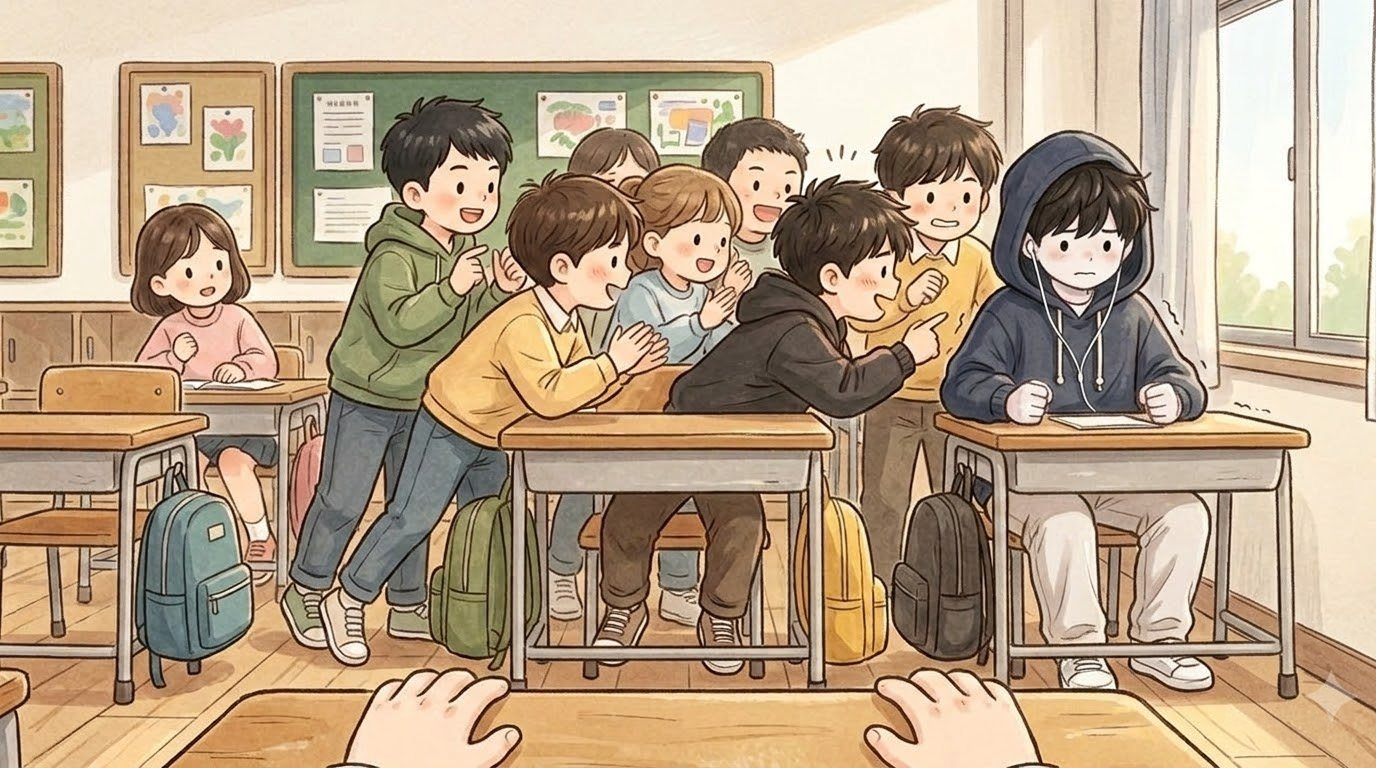
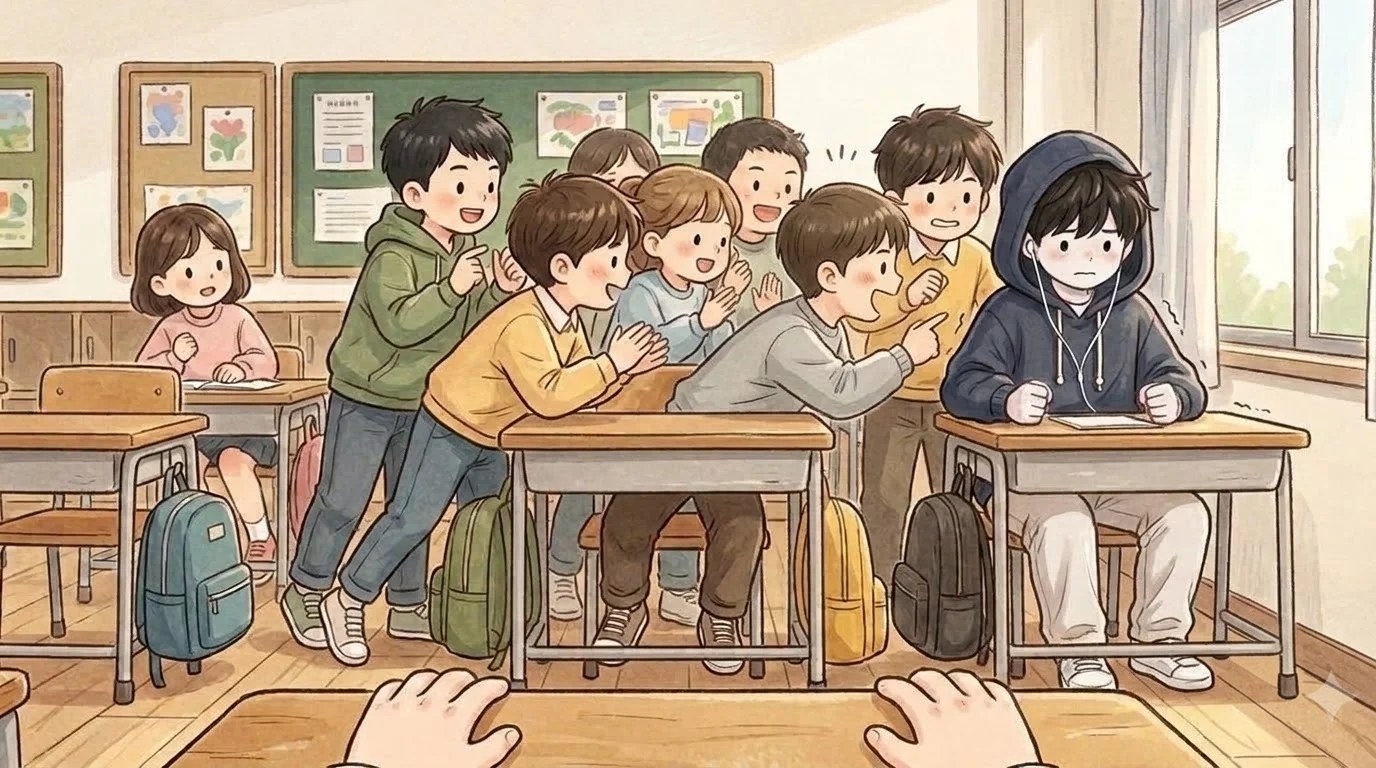
redraw (Flow, Nano Banana Pro): haneul_05 the black-jacket boy in the crowd is an ordinary classmate in grey (no Minho in Haneul Day 6) (BUILD 1107095218)

Changed region(s): [[0.4688, 0.2188, 0.6875, 0.5625]]

diff --git a/index.html b/index.html
@@ -119,14 +119,14 @@ body,button{word-break:keep-all;overflow-wrap:break-word}
 <div id="fader"></div>
 <script>
 // same address, newest version: if the page this phone has kept is older than the one online, fetch the new one and reopen
-const BUILD='1107095103';
+const BUILD='1107095218';
 try{fetch(location.pathname,{cache:'no-store'}).then(r=>r.text()).then(t=>{const m=t.match(/const BUILD='(\d+)'/);if(m&&m[1]!==BUILD&&sessionStorage.getItem('upd')!==m[1]){sessionStorage.setItem('upd',m[1]);fetch(location.pathname,{cache:'reload'}).then(()=>location.reload())}}).catch(()=>{})}catch(e){}
 </script>
-<script src="i18n.js?v=1107095103"></script>
-<script src="i18n_prologue_v2.js?v=1107095103"></script>
-<script src="day2/i18n_engine.js?v=1107095103"></script>
-<script src="day2/data.js?v=1107095103"></script>
-<script src="day3/data.js?v=1107095103"></script>
+<script src="i18n.js?v=1107095218"></script>
+<script src="i18n_prologue_v2.js?v=1107095218"></script>
+<script src="day2/i18n_engine.js?v=1107095218"></script>
+<script src="day2/data.js?v=1107095218"></script>
+<script src="day3/data.js?v=1107095218"></script>
 <script>
 // ---------- data ----------
 const MW=1672,MH=941,KID=180;
@@ -549,34 +549,34 @@ function pickHero(){const m=document.getElementById('modal'),c=document.getEleme
  c.innerHTML=`<h2>${tr('전학생 반장되기')}</h2><p>${tr('한국말이 아직 서툰 전학생,<br>반장 선거에 나가다.')}</p><p style="margin-top:14px">${tr('누구로 할까요?')}</p>${(()=>{const s=loadSave();return s&&s.day>=2&&s.mode===UI+'-'+LANG?`<p><button class="big" id="cont">${tr('{n}일차부터 이어 하기').replace('{n}',s.day)}</button></p>`:''})()}<div class="pick heroes"><button data-h="hero_f"><img src="faces/hero_f_smile.jpg" alt="여자 주인공">${heroName(1)}</button><button data-h="hero_m"><img src="faces/hero_m_smile.jpg" alt="남자 주인공">${heroName(0)}</button></div>`;
  m.classList.add('on');{const cb=document.getElementById('cont');if(cb)cb.onclick=()=>{const s=loadSave();HERO=s.hero;Object.assign(HEART,s.heart||{});(s.found||[]).forEach(k=>FOUND.add(k));HEART_D1={...HEART};chime();(typeof contGame==='function'?contGame(s):startDay(Math.min(s.day,Object.keys(window.D3||{}).length?3:2)))}}c.querySelectorAll('.pick button').forEach(b=>b.onclick=()=>{HERO=b.dataset.h;m.classList.remove('on');chime();bgm('day');load('home_am');say([['nar','','이사 온 다음 날 아침. 아직 풀지 못한 상자들이 쌓여 있다.'],['think','sad','(오늘부터 새 학교야. 여기 말도 아직 서툰데…….)'],['think','smile','({m}한테 인사하고 학교 가야지.)']],morning)})}
 </script>
-<script src="day2/engine.js?v=1107095103"></script>
-<script src="day2/ep_minho.js?v=1107095103"></script>
-<script src="day2/meet.js?v=1107095103"></script>
-<script src="day2/ep_sua.js?v=1107095103"></script>
-<script src="day2/ep_hangyeol.js?v=1107095103"></script>
-<script src="day2/ep_siwoo.js?v=1107095103"></script>
-<script src="day2/ep_haram.js?v=1107095103"></script>
-<script src="day2/ep_jiho.js?v=1107095103"></script>
-<script src="day2/ep_hyeeun.js?v=1107095103"></script>
-<script src="day2/ep_haneul.js?v=1107095103"></script>
-<script src="day2/ep_junho.js?v=1107095103"></script>
-<script src="day2/ep_yuna.js?v=1107095103"></script>
-<script src="day2/ep_yena.js?v=1107095103"></script>
-<script src="day2/ep_haeun.js?v=1107095103"></script>
-<script src="day2/ep_youngmin.js?v=1107095103"></script>
-<script src="day2/ep_seah.js?v=1107095103"></script>
-<script src="day2/ep_jihoon.js?v=1107095103"></script>
-<script src="words_ja_ru.js?v=1107095103"></script>
-<script src="day2/mybag.js?v=1107095103"></script>
-<script src="day2/wordpics.js?v=1107095103"></script>
-<script src="day2/spots.js?v=1107095103"></script>
-<script src="day2/textfit.js?v=1107095103"></script>
-<script src="day2/tester.js?v=1107095103"></script>
-<script src="day2/ux.js?v=1107095103"></script>
-<script src="day2/tapword.js?v=1107095103"></script>
-<script src="day2/review.js?v=1107095103"></script>
-<script src="day2/ep_ending.js?v=1107095103"></script>
-<script src="day2/ending.js?v=1107095103"></script>
+<script src="day2/engine.js?v=1107095218"></script>
+<script src="day2/ep_minho.js?v=1107095218"></script>
+<script src="day2/meet.js?v=1107095218"></script>
+<script src="day2/ep_sua.js?v=1107095218"></script>
+<script src="day2/ep_hangyeol.js?v=1107095218"></script>
+<script src="day2/ep_siwoo.js?v=1107095218"></script>
+<script src="day2/ep_haram.js?v=1107095218"></script>
+<script src="day2/ep_jiho.js?v=1107095218"></script>
+<script src="day2/ep_hyeeun.js?v=1107095218"></script>
+<script src="day2/ep_haneul.js?v=1107095218"></script>
+<script src="day2/ep_junho.js?v=1107095218"></script>
+<script src="day2/ep_yuna.js?v=1107095218"></script>
+<script src="day2/ep_yena.js?v=1107095218"></script>
+<script src="day2/ep_haeun.js?v=1107095218"></script>
+<script src="day2/ep_youngmin.js?v=1107095218"></script>
+<script src="day2/ep_seah.js?v=1107095218"></script>
+<script src="day2/ep_jihoon.js?v=1107095218"></script>
+<script src="words_ja_ru.js?v=1107095218"></script>
+<script src="day2/mybag.js?v=1107095218"></script>
+<script src="day2/wordpics.js?v=1107095218"></script>
+<script src="day2/spots.js?v=1107095218"></script>
+<script src="day2/textfit.js?v=1107095218"></script>
+<script src="day2/tester.js?v=1107095218"></script>
+<script src="day2/ux.js?v=1107095218"></script>
+<script src="day2/tapword.js?v=1107095218"></script>
+<script src="day2/review.js?v=1107095218"></script>
+<script src="day2/ep_ending.js?v=1107095218"></script>
+<script src="day2/ending.js?v=1107095218"></script>
 <script>
 // the goal shows big for a few seconds, then folds into a small pill (tap it to open it again)
 {const g=document.getElementById('goal');let t=null;const big=()=>{g.classList.remove('mini');clearTimeout(t);t=setTimeout(()=>g.classList.add('mini'),4000)};
